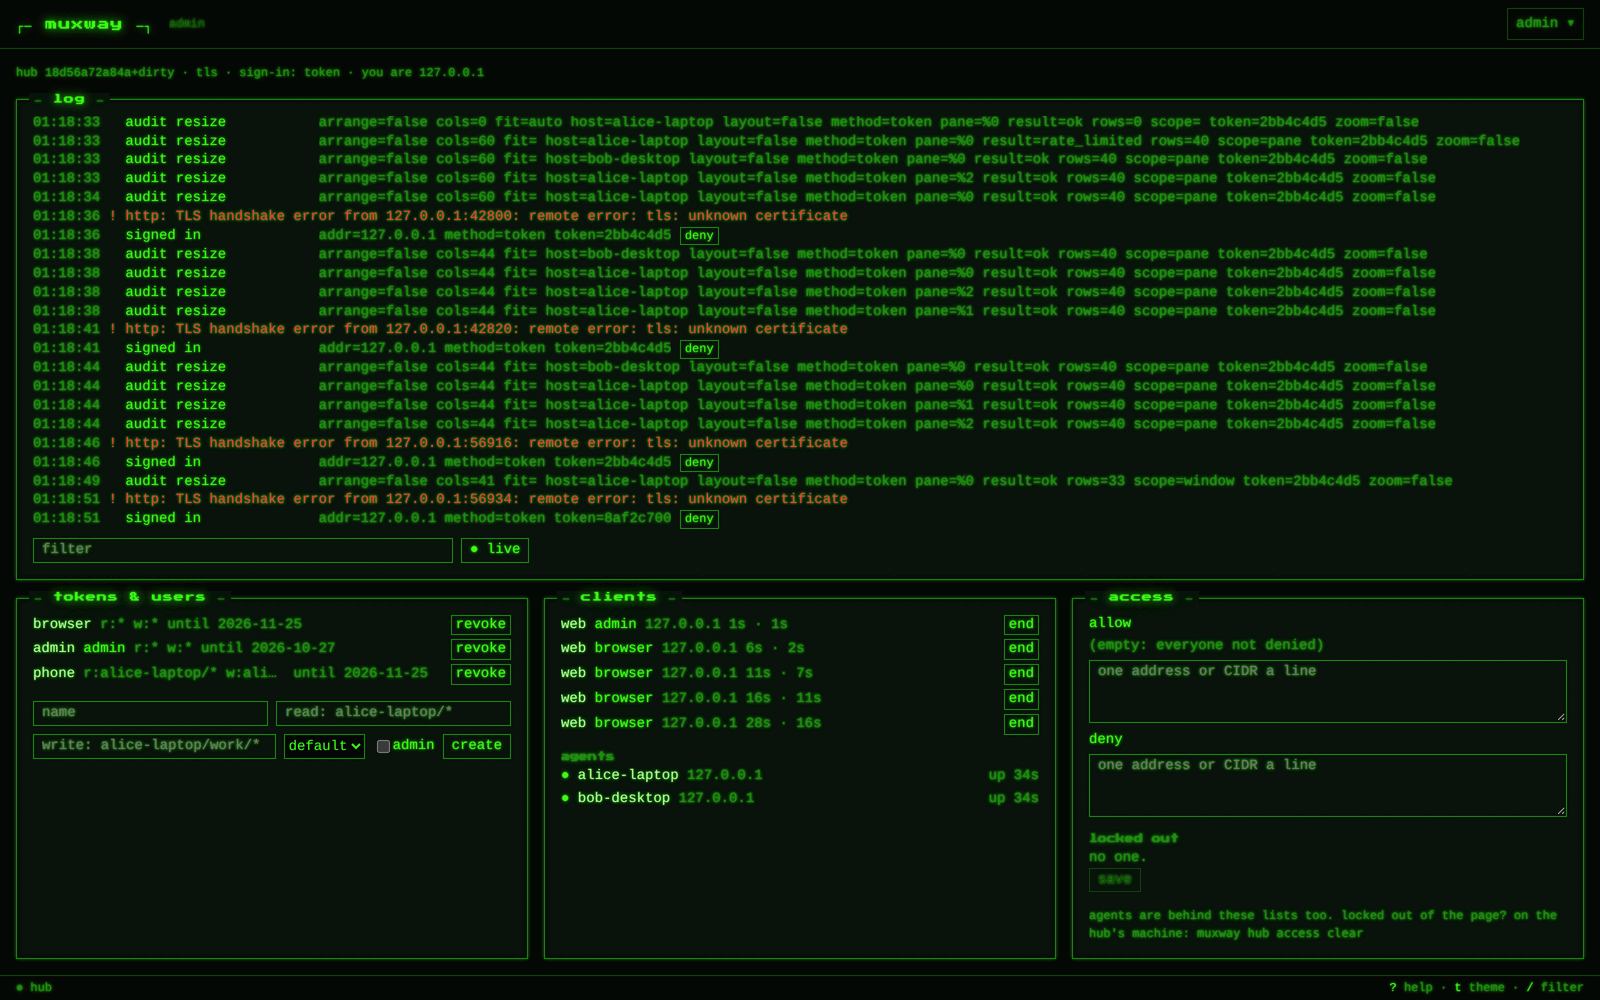
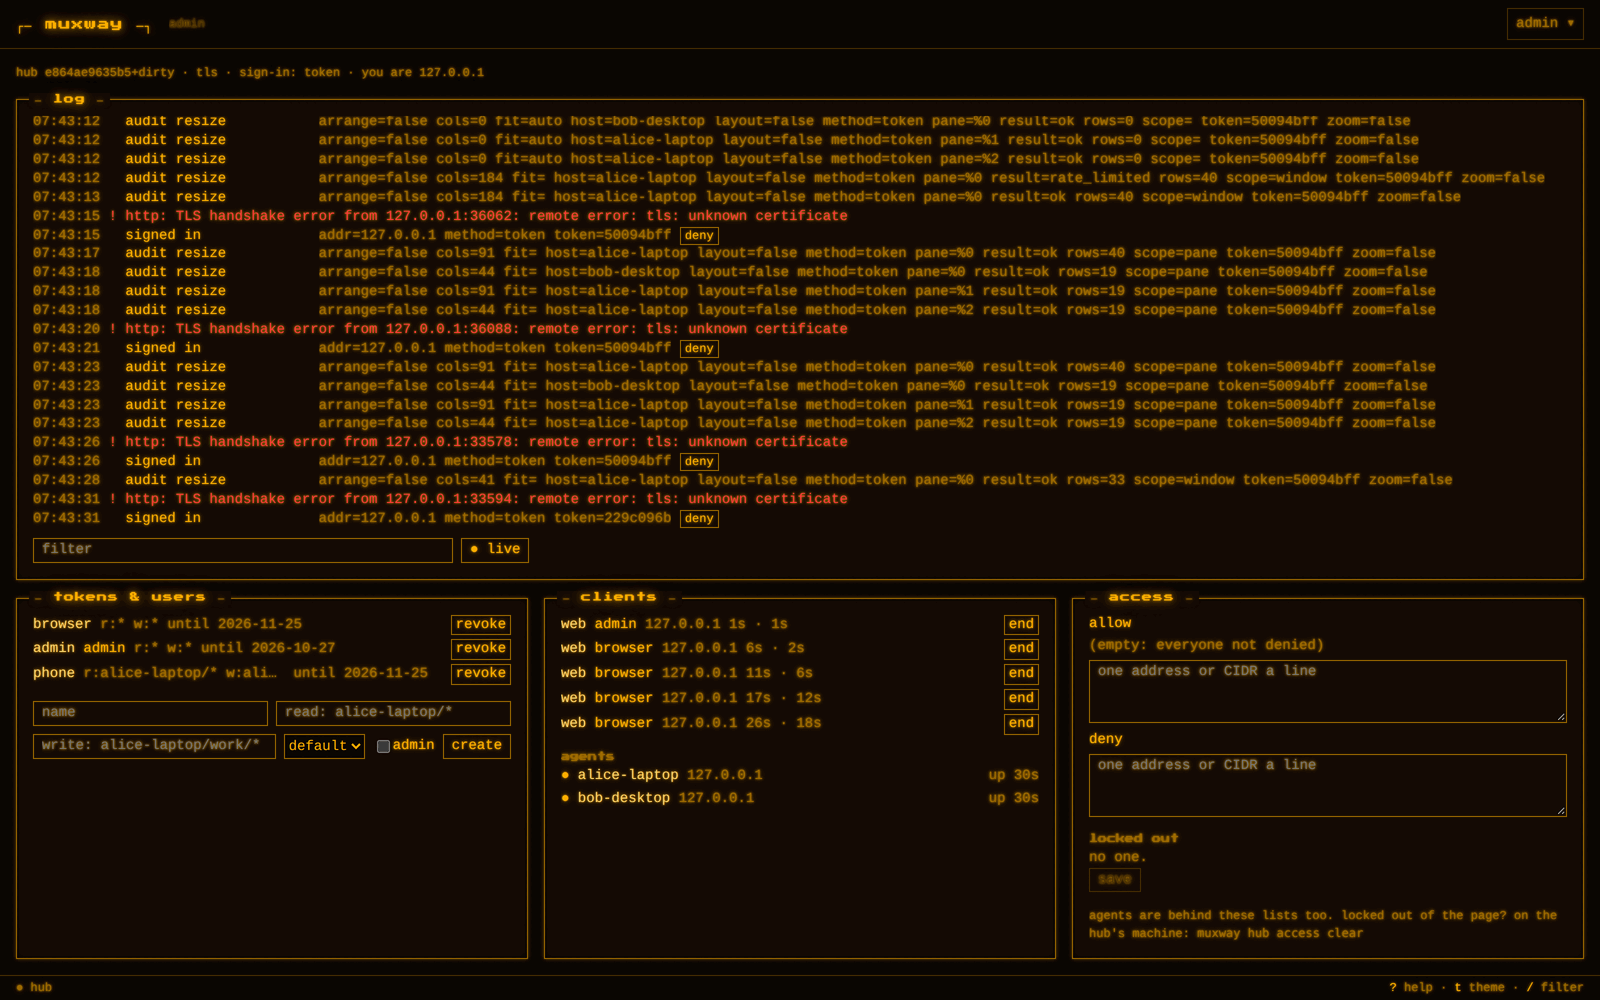
README and docs: what is only here, AI coding agents with Claude Code the one tested, screenshots in amber
The README opens with the features no other remote terminal has: panes
from several machines in one view, voice input, direct keyboard input,
an AI agent that calls you, the lens, clients down to a feature phone.
The docs no longer assume Claude Code is the only agent; it is the one
tested, and what another needs is written down. The hero shows a split
layout, the client table has headers and download links, the two client
shots are labelled, and every web screenshot is amber.

diff --git a/README.md b/README.md
@@ -6,39 +6,51 @@ Your tmux, from anywhere. A hub, a small agent per machine, and clients
 from the browser to a phone, a watch, smart glasses and a 2002 feature
 phone. Security first: a tmux pane is a shell.
 
-![Four panes from two machines on one screen: Claude Code asking for a permission, a build, a log and a docker host](docs/images/tiles.png)
+![Four panes from two machines on one screen: an AI agent asking for a permission tall on the left, a build above a log and a docker host on the right](docs/images/tiles.png)
 
 > Young, and used daily by its author. The hub, the agent, the protocol,
-> the web client, notifications from AI coding CLIs and sign-in with
+> the web client, notifications from AI coding agents and sign-in with
 > OpenID Connect are all in; the
 > [Android](https://github.com/notmarkopadjen/muxway-android),
 > [glasses](https://github.com/notmarkopadjen/muxway-glasses-even) and
 > [Java ME](https://github.com/notmarkopadjen/muxway-midp) clients are
 > in their own repositories. Expect the protocol to grow, not to break.
 
+## Only here
+
+What sets muxway apart from the other ways of reaching a terminal from
+a browser or a phone:
+
+- **Panes from several machines in one view.** Up to four tiles from
+  any mix of hosts, sessions and windows: the build on your workstation
+  beside the logs on a server and an AI agent on your laptop, all live
+  and typable. Drag a header to swap two tiles or split a place, drag a
+  divider to resize; tiles that are one window's panes move that window
+  on its host as you rearrange them here.
+- **Voice input.** Hold the microphone in the browser, on the phone, on
+  the watch or on the glasses. The hub transcribes, the words land on
+  the input line for you to read, and nothing is sent until you say so.
+- **Direct keyboard input.** Type as you would at the terminal. A key
+  bar covers what a phone keyboard lacks, the web adds a full terminal
+  keyboard (F1 to F24, Ctrl, Alt, the keypad) and the mouse for programs
+  that take it. Every key goes through a fixed grammar, never a raw
+  escape sequence.
+- **Your AI agent calls you.** An AI coding agent in a pane tells muxway,
+  through its hooks, when it asks a question, wants a permission, has
+  gone idle or has finished. The pane lights up in every client, the
+  phone and the watch buzz, the glasses show a banner, and you answer
+  from wherever you are: a tap, a key, a few typed words, a spoken
+  reply. Claude Code is the agent tested so far; another needs its hooks
+  to call `muxway notify` on the host, and a lens for its screen.
+- **A lens for tiny screens.** A lens knows an agent's screen and
+  reshapes it, so the conversation fits on a watch, on glasses, or on a
+  96 by 65 pixel Nokia.
+- **Clients down to a 2002 feature phone.** The API is small and text
+  mode is plain text, so a browser, an Android phone with a Wear OS
+  watch, Even Realities G2 glasses and a Java ME MIDlet in 30 KiB are
+  all clients, and yours can be too.
+
 ## Why
-
-**One screen, every machine.** Up to four panes side by side from any
-mix of hosts, sessions and windows: the build on your workstation, the
-logs on a server, an AI agent on your laptop, all live and typable. Drag
-a header to rearrange; tiles that are one window's panes stay in step
-with that window on its host, so a divider dragged here moves tmux's
-split there.
-
-**Your AI coding CLI calls you.** Claude Code in a pane tells muxway,
-through its hooks, when it asks a question, wants a permission, has gone
-idle or has finished. The pane lights up in every client, the phone and
-the watch buzz, the glasses show a banner, and you answer from wherever
-you are: a tap, a key, a few typed words, or a spoken reply that the hub
-transcribes. A **lens** knows Claude Code's screen and reshapes it for a
-tiny display, so the conversation fits on a watch, on glasses, or on a
-96 by 65 pixel Nokia.
-
-**Anything that can speak HTTP is a client.** The API is small, text
-mode is plain text, and the clients prove it: a React web app served by
-the hub itself, an Android app with a Wear OS face, an Even Realities G2
-app, and a Java ME MIDlet that fits in 30 KiB. Build your own from the
-[protocol specification](docs/protocol/v1.md).
 
 **Built like a remote shell service, because it is one.** Panes are
 opt-in: nothing is reachable until its owner marks it. A token names
@@ -48,6 +60,11 @@ Every authentication step is rate limited and locked out, every write is
 audit logged on the host, secrets are hashed, compared in constant time
 and never logged. One Go binary per role, one third-party dependency,
 no cgo.
+
+**Anything that can speak HTTP is a client.** The clients prove it: a
+React web app served by the hub itself, an Android app with a Wear OS
+face, an Even Realities G2 app, and a Java ME MIDlet that fits in 30
+KiB. Build your own from the [protocol specification](docs/protocol/v1.md).
 
 ## How it works
 
@@ -62,7 +79,7 @@ flowchart LR
     H[(Hub)]
     subgraph Host[Each machine]
         A[Agent] --- T[tmux]
-        CC[Claude Code] -- hooks --> A
+        AI[AI coding agent] -- hooks --> A
     end
     W & AN & G & J -- "HTTPS, token or session" --> H
     A -- "outbound WSS, signed and encrypted" --> H
@@ -111,22 +128,27 @@ service units, the reverse proxy, backups and token rotation.
 Served by the hub, nothing to install. The pane list groups every host
 you may reach; a badge marks a pane that needs you.
 
-![The pane list: two hosts, their sessions and windows, a Claude pane waiting for a permission](docs/images/panes.png)
+![The pane list: two hosts, their sessions and windows, an AI agent's pane waiting for a permission](docs/images/panes.png)
 
-A pane running Claude Code is named by what Claude says it is doing, the
-header carries the question, and the command row offers Claude's slash
-commands; a shell's gets its recent lines.
+A pane running an AI agent is named by what the agent says it is doing,
+the header carries its question, and the command row offers the agent's
+slash commands; a shell's gets its recent lines. The Claude Code lens is
+the one there is today.
 
 ![A single pane with Claude Code asking whether to run a git commit](docs/images/claude.png)
 
-Amber and paper for daylight, and a phone layout that keeps the keys
-under the thumb.
+Amber by default; phosphor green, and paper for daylight.
 
-| Amber | Paper |
+| Green | Paper |
 |---|---|
-| ![amber](docs/images/amber.png) | ![paper](docs/images/paper.png) |
+| ![the green theme](docs/images/green.png) | ![the paper theme](docs/images/paper.png) |
 
-<img src="docs/images/phone.png" alt="The pane view on a phone-sized screen" width="300">
+On a phone the keys stay under the thumb and the pane buttons fold
+behind one `⋯`.
+
+| A pane on a phone | The pane buttons, folded |
+|---|---|
+| <img src="docs/images/phone.png" alt="The pane view on a phone-sized screen" width="300"> | <img src="docs/images/phone-tools.png" alt="The pane buttons as a menu on a phone" width="300"> |
 
 An admin sees the hub's live log, tokens and users, connected clients
 and agents, and the address allow and deny lists.
@@ -145,16 +167,15 @@ The features: [web client](docs/features/web-client.md),
 
 ## The other clients
 
-| | |
-|---|---|
-| [**muxway-android**](https://github.com/notmarkopadjen/muxway-android) | Panes on a phone, one per screen or side by side, set up by scanning a code. A Wear OS watch face, complication and tile show which panes wait; a tap opens a pane's tail on the wrist with a few answers and the microphone. |
-| [**muxway-glasses-even**](https://github.com/notmarkopadjen/muxway-glasses-even) | Even Realities G2: the pane list at a glance, a pane through the Claude Code lens, a banner when it needs you, and a reply from a fixed set or by voice. |
-| [**muxway-midp**](https://github.com/notmarkopadjen/muxway-midp) | Java ME, MIDP 1.0 and 2.0: list, read, reply and send keys from a Nokia 6310i over GPRS, through a small relay. |
+| Client | What it does | Get it |
+|---|---|---|
+| [**muxway-android**](https://github.com/notmarkopadjen/muxway-android) | Panes on a phone, one per screen or side by side, set up by scanning a code. A Wear OS watch face, complication and tile show which panes wait; a tap opens a pane's tail on the wrist with a few answers and the microphone. | [Latest APKs](https://github.com/notmarkopadjen/muxway-android/releases/latest): the app, the watch app and the watch face |
+| [**muxway-glasses-even**](https://github.com/notmarkopadjen/muxway-glasses-even) | Even Realities G2: the pane list at a glance, a pane through the Claude Code lens, a banner when it needs you, and a reply from a fixed set or by voice. | On the Even Hub: to be provided. Until then, pack it yourself |
+| [**muxway-midp**](https://github.com/notmarkopadjen/muxway-midp) | Java ME, MIDP 1.0 and 2.0: list, read, reply and send keys from a Nokia 6310i over GPRS, through a small relay. | [Latest JARs](https://github.com/notmarkopadjen/muxway-midp/releases/latest): MIDP 2.0 and MIDP 1.0 |
 
-<p>
-<img src="docs/images/glasses.png" alt="Claude Code through the lens on the glasses" width="576">
-<img src="docs/images/midp.png" alt="Claude Code through the lens on a 96 by 65 pixel phone" width="226">
-</p>
+| Even Realities G2: Claude Code through the lens | Nokia 6310i, 96 by 65 pixels: the same pane |
+|---|---|
+| <img src="docs/images/glasses.png" alt="Claude Code through the lens on the glasses" width="576"> | <img src="docs/images/midp.png" alt="Claude Code through the lens on a 96 by 65 pixel phone" width="226"> |
 
 The clients are one product: [docs/ui-guideline.md](docs/ui-guideline.md)
 says what every client shows and which key or gesture does what.

diff --git a/docs/features/attachments.md b/docs/features/attachments.md
@@ -1,11 +1,11 @@
 # Attachments: a file pasted or dropped into a pane lands on the host
 
-Claude Code reads an image or a file when its path is in the prompt. In a
-local terminal a screenshot is pasted straight in; through muxway only
-text travelled. Now a client can hand the program in a pane a file: the
-host's agent writes it into an **inbox** its owner enabled, and the
-client puts the file's path on the input line for you to finish the
-sentence and send.
+An AI coding agent such as Claude Code reads an image or a file when its
+path is in the prompt. In a local terminal a screenshot is pasted
+straight in; through muxway only text travelled. Now a client can hand
+the program in a pane a file: the host's agent writes it into an
+**inbox** its owner enabled, and the client puts the file's path on the
+input line for you to finish the sentence and send.
 
 ## Using it
 
@@ -85,8 +85,8 @@ the owner on 2026-10-24):
 - **The client's own name** for the file is used for its toast only and
   never sent, so no `../` or shell characters come anywhere near a path.
 - **The person types the path** into the prompt; the client never sends
-  it to the pane on its own. A hostile image or PDF read by Claude Code
-  through its path is what pasting it locally does.
+  it to the pane on its own. A hostile image or PDF read by the program
+  in the pane through its path is what pasting it locally does.
 - The hub holds the bytes for the request only. The message that carries
   a file to the agent may be up to 12 MiB; every other message stays
   under 1 MiB.

diff --git a/docs/features/notifications.md b/docs/features/notifications.md
@@ -1,13 +1,23 @@
 # Notifications
 
 A process in an exposed pane can tell muxway that the pane needs its owner.
-Claude Code does it through its hooks: a client is told when Claude asks a
-question, waits for a permission, has gone idle or has finished, and which
-pane to open.
+AI coding agents that run in tmux (Claude Code is the one tested) tell the
+hub, through their hooks, when they ask a question, wait for a permission,
+have gone idle or have finished, and which pane to open.
+
+Only Claude Code has been tested so far. Another agent needs hooks, or a
+wrapper around it on the host, that call `muxway notify` with the pane and
+the kind (see [from any script](#from-any-script)); a notification carries
+the pane, the kind and a short text and nothing else, so the hub and the
+clients do not learn which agent sent it, and `--from claude-code` only
+tells the command to read Claude Code's hook payload. Where a small client
+should reshape the agent's screen, it also needs a lens of its own: what a
+lens is and shows is in the [UI guideline](../ui-guideline.md#12-the-lens),
+the web client's in [its page](web-client.md#the-lens).
 
 ```mermaid
 flowchart LR
-    CC[Claude Code in a pane] -- hook --> N[muxway notify]
+    CC[AI coding agent in a pane] -- hook --> N[muxway notify]
     N -- notify.sock --> A[Agent]
     A -- event --> H[(Hub)]
     H -- GET /v1/events, attention on panes --> C[Clients]

diff --git a/docs/ARCHITECTURE.md b/docs/ARCHITECTURE.md
@@ -50,7 +50,8 @@ flowchart LR
   [features/web-client.md](features/web-client.md). What every client
   shows alike, and what belongs to one device, is in
   [ui-guideline.md](ui-guideline.md).
-- **Notifications**: a process in a pane, such as a Claude Code hook, runs
+- **Notifications**: a process in a pane, such as the hooks of an AI
+  coding agent (Claude Code is the one tested), runs
   `muxway notify`; the agent marks the pane and the hub tells clients, see
   [features/notifications.md](features/notifications.md).
 
@@ -184,6 +185,9 @@ sequenceDiagram
 ```
 
 ### Notifications
+
+Any AI coding agent's hook or wrapper enters at `muxway notify`; the flow
+below shows Claude Code's hook, the one tested.
 
 ```mermaid
 sequenceDiagram
